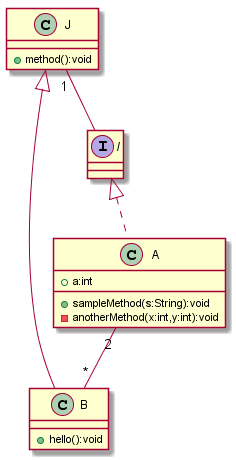
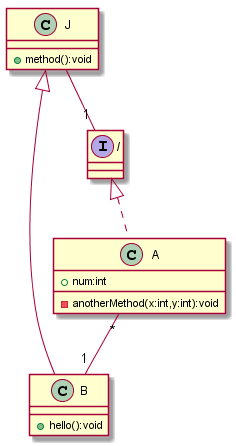
class diagram showing java style getter and setter for fields

diff --git a/PersonalProject/Outputs/output.java b/PersonalProject/Outputs/output.java
@@ -1,7 +1,6 @@
 @startuml
 class A{
-+a:int
-+sampleMethod(s:String):void
++num:int
 -anotherMethod(x:int,y:int):void
 }
 class B{
@@ -12,8 +11,8 @@ interface I{
 class J{
 +method():void
 }
-class A "2" -- "*" class B
-class J "1" --  interface I
+class A "*" -- "1" class B
+class J  -- "1" interface I
 interface I<|..class A
 class J<|--class B
 @enduml
